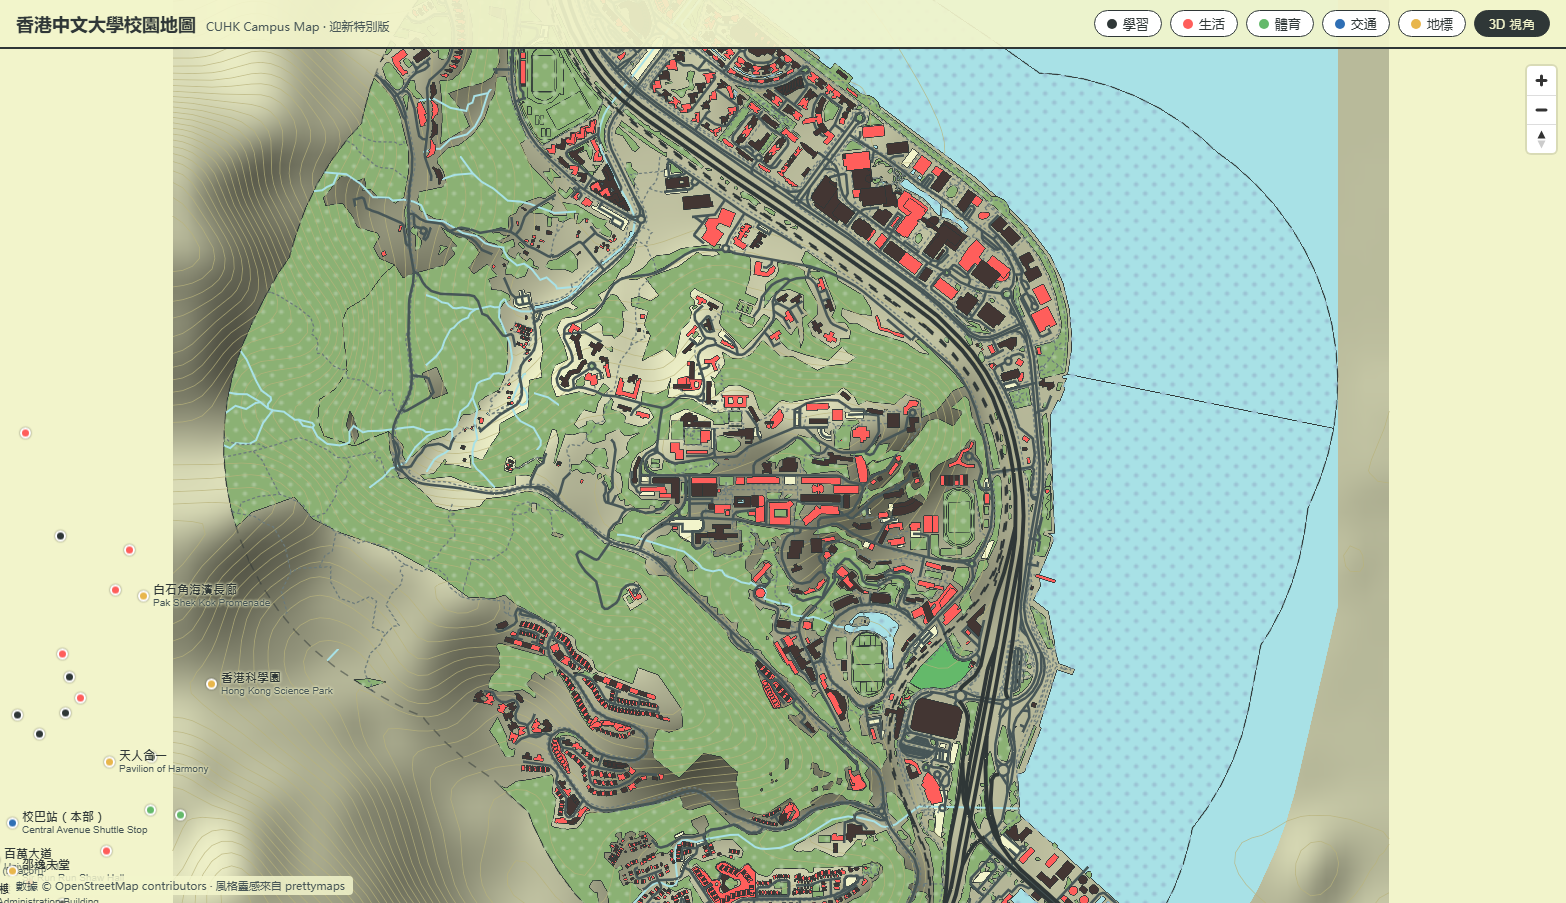
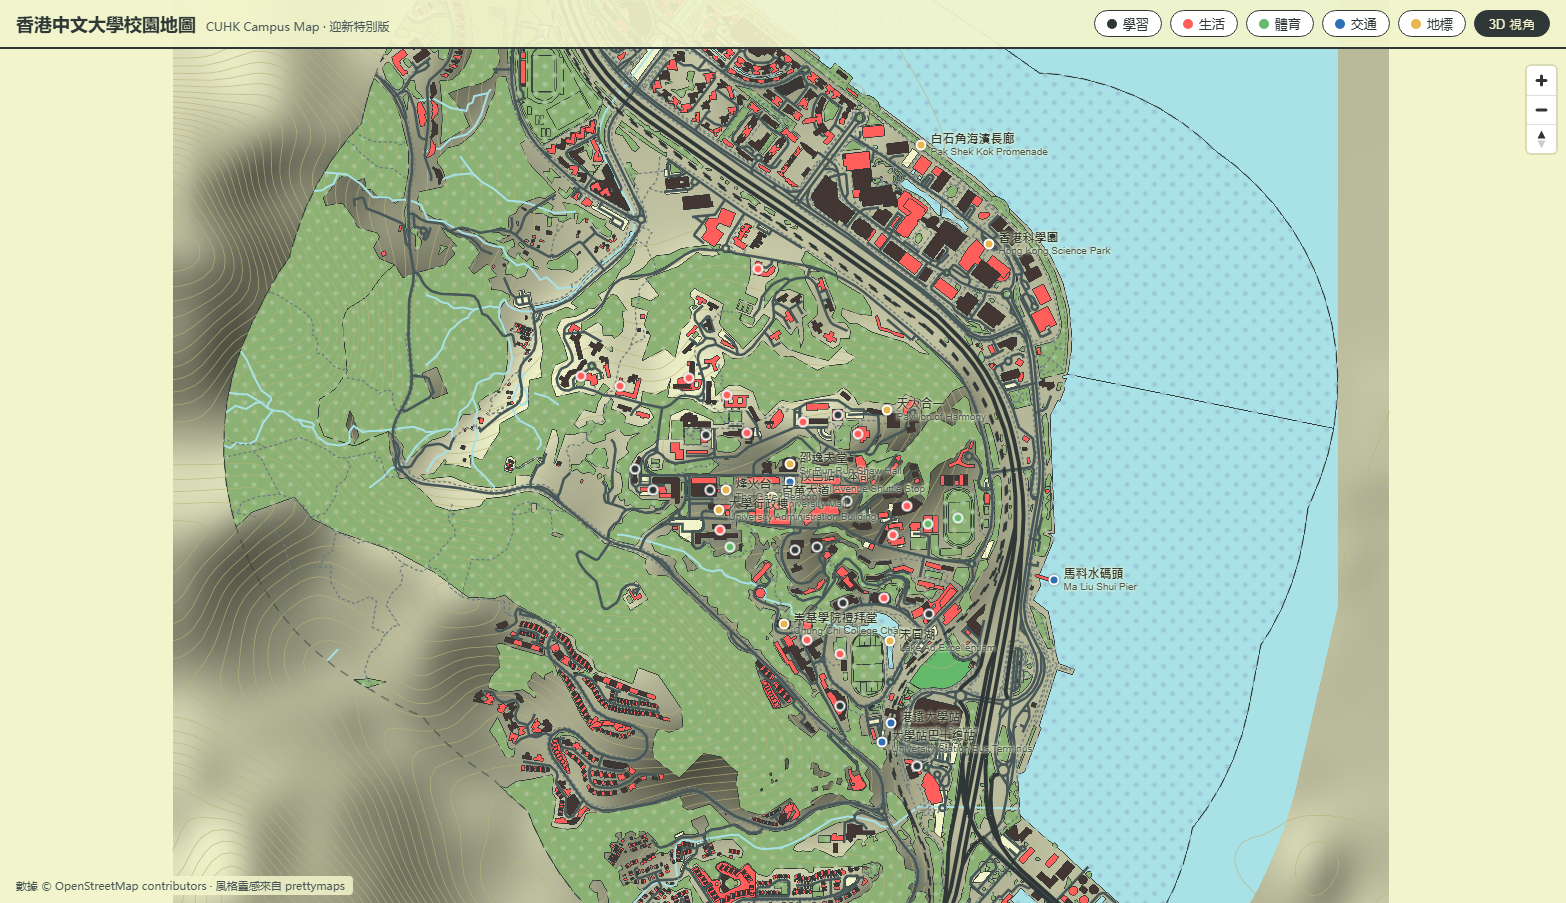
cuhk: fix marker positioning (MapLibre absolute override) + retake screenshots

diff --git a/cuhk/site/index.html b/cuhk/site/index.html
@@ -34,7 +34,7 @@
     border-radius: 999px; background: #2F3737; color: #F2F4CB; font-size: 13px;
   }
 
-  .poi-marker { position: relative; display: flex; align-items: center; gap: 4px; cursor: pointer; }
+  .poi-marker { display: flex; align-items: center; gap: 4px; cursor: pointer; }
   .poi-marker .dot {
     width: 11px; height: 11px; border-radius: 50%;
     border: 2px solid #fff; box-shadow: 0 0 2px rgba(0,0,0,0.6); flex: none;
